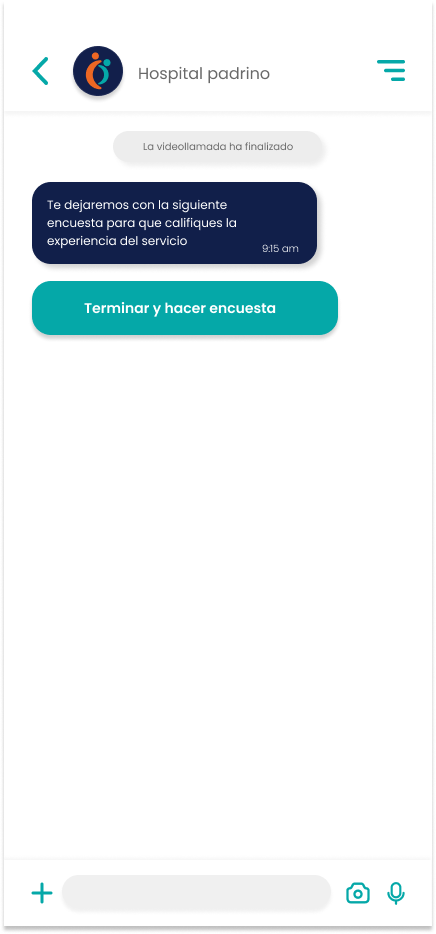
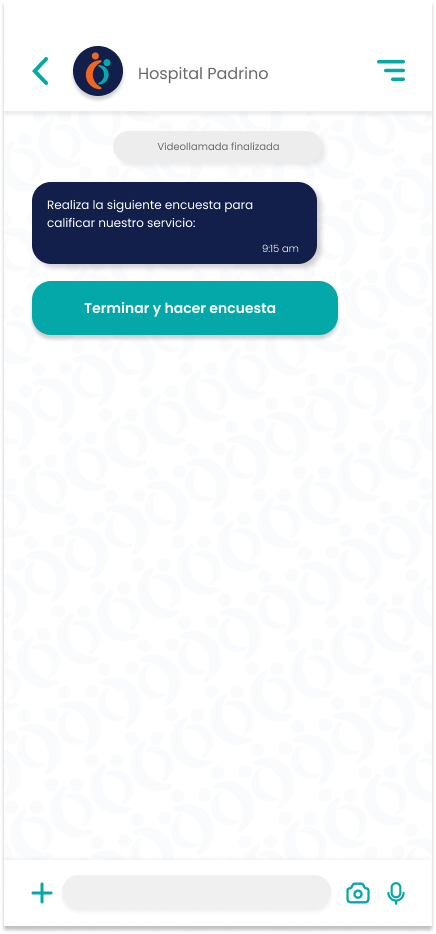
cambios gabriela

Changed region(s): [[0.1193, 0.2173, 0.5665, 0.2794], [0.3578, 0.1552, 0.656, 0.1863], [0.4771, 0.0621, 0.6261, 0.0931]]

diff --git a/sketch.js b/sketch.js
@@ -62,7 +62,7 @@ function mousePressed() {
   }
 
   // Botón hacer encuesta
-  if (mouseX > 27 && mouseX < 27 + 305 && mouseY > 839 && mouseY < 839 + 51 &&
+  if (mouseX > 23 && mouseX < 23 + 303 && mouseY > 795 && mouseY < 795 + 50 &&
     pantallaActual === 5) {
     pantallaActual = 12;
   }
